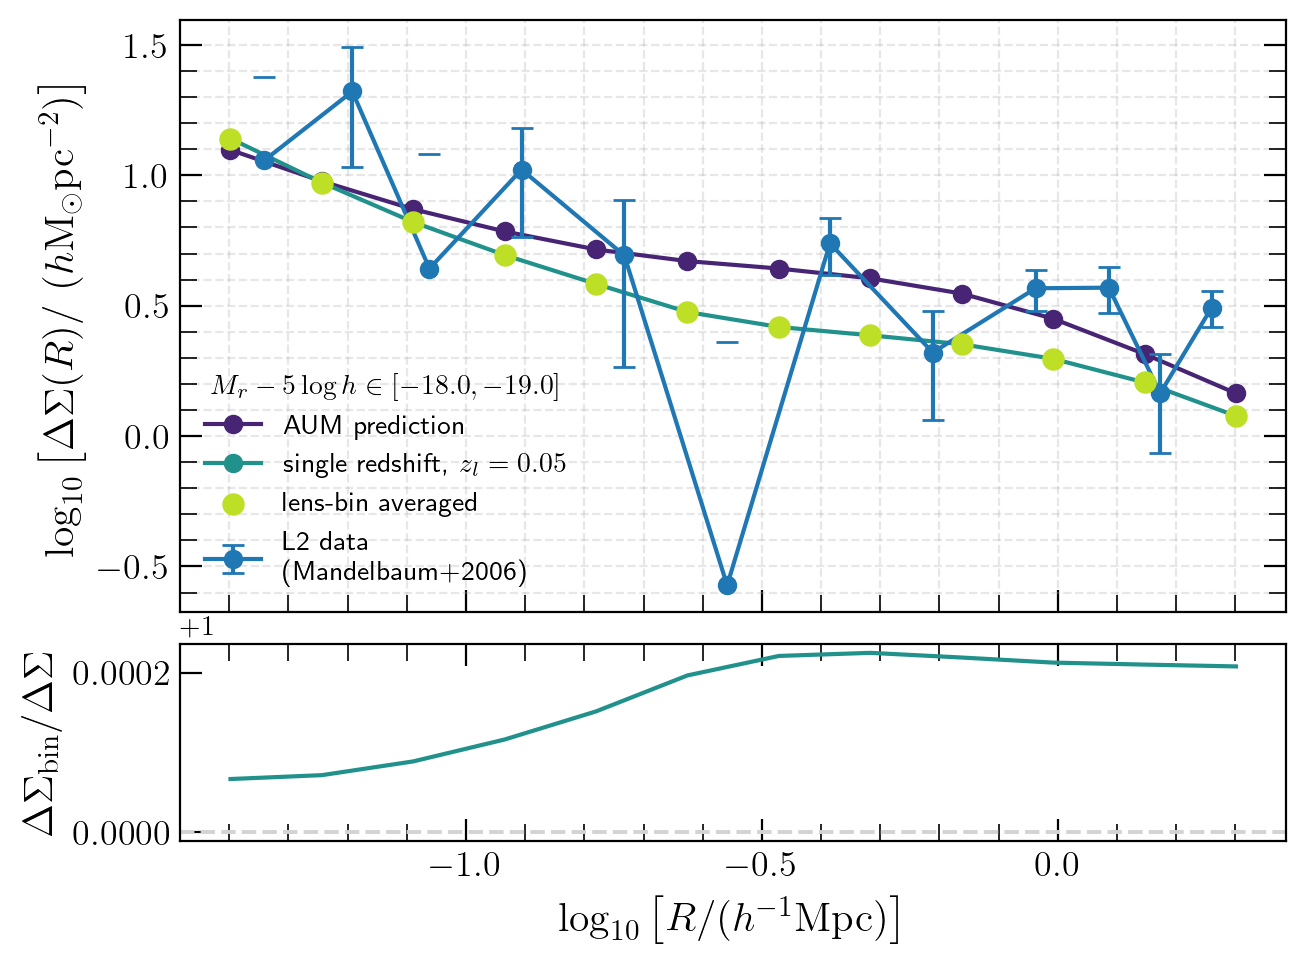
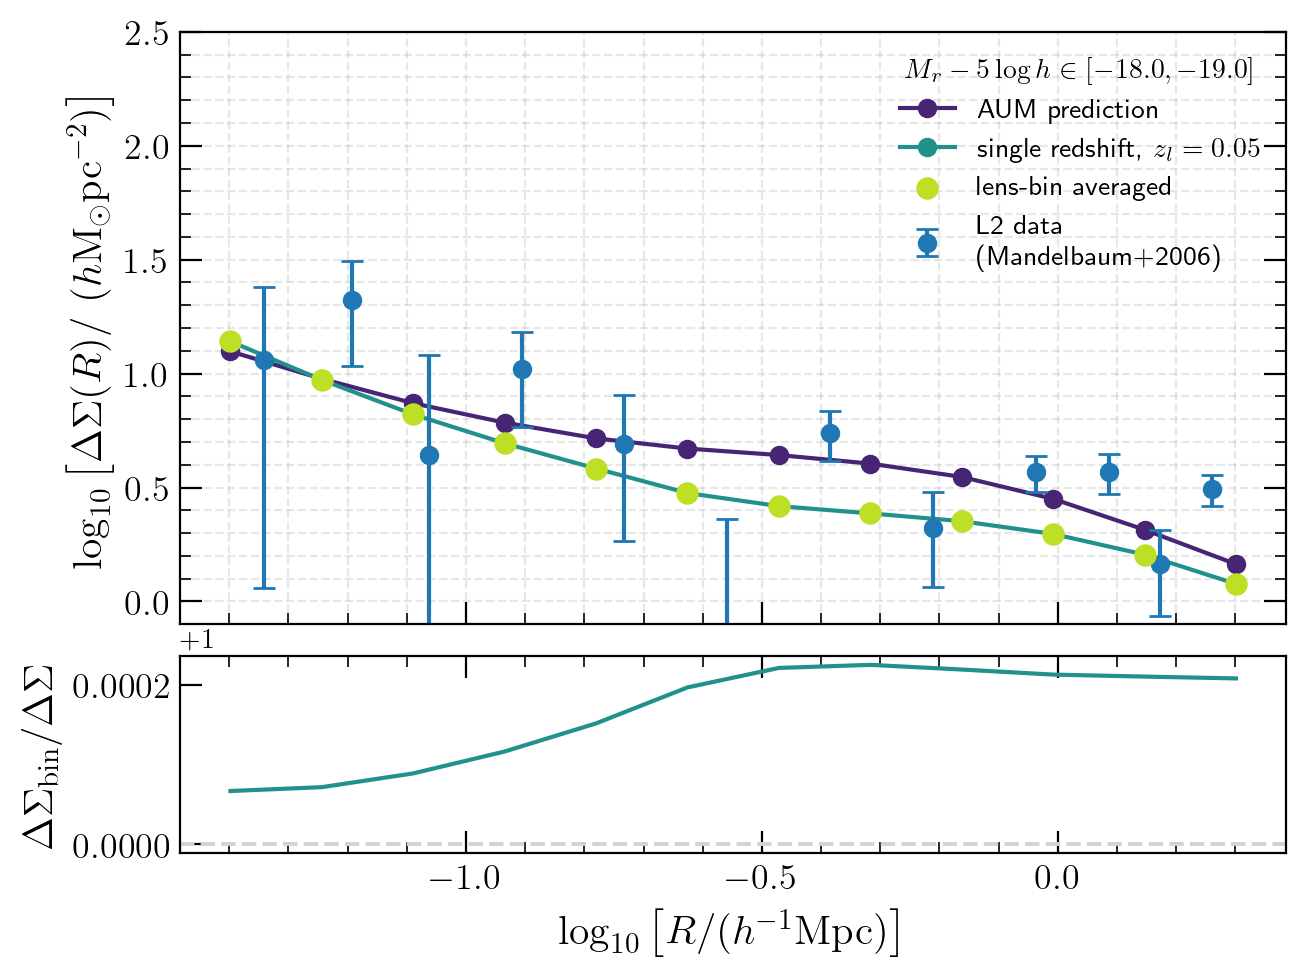
Exact plots as Cacciato with range and errorbars

diff --git a/benchmarks/plot_cacciato_esd.py b/benchmarks/plot_cacciato_esd.py
@@ -29,7 +29,7 @@ if __name__=="__main__":
         shift_h_factor = bool(int(sys.argv[3]))
 
     # This string completely defines the Cacciato sample on interest
-    lumbin = "L2"
+    lumbin = "L6f"
 
     fname = Path(fname.stem + f"_{lumbin}" + fname.suffix)
     if shift_h_factor:
@@ -78,15 +78,30 @@ if __name__=="__main__":
     )
 
     obs_data_vector = get_full_sample_esd(benchmark_indir, file_high, file_low)
+    xval = obs_data_vector.r.values/1000
+    yval = obs_data_vector.esd.values
+    err = obs_data_vector.err.values
     if plot_log:
         # full sample data: Mandelbaum+2006
-        f_x = np.log10(obs_data_vector.r/1000)
+        f_x = np.log10(xval)
         rmask = (f_x > -1.5)
         f_x = f_x[rmask]
-        f_y = np.log10(obs_data_vector.esd)[rmask]
-        f_y_err_lower = f_y - np.log10(obs_data_vector.esd - obs_data_vector.err)
-        f_y_err_upper = np.log10(obs_data_vector.esd + obs_data_vector.err) - f_y
-        f_y_err = np.array([f_y_err_lower[rmask], f_y_err_upper[rmask]])
+        f_y = np.log10(yval)[rmask]
+
+        # --- extract the error bars ---
+        fig_dummy, ax_dummy = plt.subplots()
+        container = ax_dummy.errorbar(f_x, yval[rmask], yerr=err[rmask])
+        ax_dummy.set_yscale('log')
+        lines = container[2][0].get_segments()
+        plt.close(fig_dummy)
+        y_min = np.array([line[0, 1] for line in lines]) 
+        y_max = np.array([line[1, 1] for line in lines])
+        f_y_err_lower = f_y - np.log10(y_min)
+        f_y_err_upper = np.log10(y_max) - f_y
+        # Force any NaN/Negative values from the log zero floor to a safe visual constant
+        f_y_err_lower = np.where(np.isnan(f_y_err_lower) | (f_y_err_lower < 0), 1.0, f_y_err_lower)
+        f_y_err_upper = np.where(np.isnan(f_y_err_upper) | (f_y_err_upper < 0), 1.0, f_y_err_upper)
+        f_y_err = np.array([f_y_err_lower, f_y_err_upper])
 
         #DSF model
         t_x = np.log10(r*cosmo_pars['h']) #Mpc/h
@@ -108,13 +123,14 @@ if __name__=="__main__":
         yscale = "linear"
         xlabel = r"$\log_{10}\left[ R/ (h^{-1}{\rm Mpc}) \right]$"
         ylabel = r"$\log_{10}\left[ \Delta\Sigma(R)/\ (h{\rm M_\odot {pc}^{-2}}) \right]$"
+        ylim =  (-0.1, 2.5)
     else:
         # full sample data: Mandelbaum+2006
-        f_x = obs_data_vector.r/1000
-        rmask = np.log10(obs_data_vector.r/1000)>-1.5
+        f_x = xval
+        rmask = np.log10(f_x)>-1.5
         f_x = f_x[rmask]
-        f_y = obs_data_vector.esd[rmask]
-        f_y_err = obs_data_vector.err[rmask]
+        f_y = yval[rmask]
+        f_y_err = err[rmask]
 
         # theory
         t_x = r*cosmo_pars['h']
@@ -172,7 +188,7 @@ if __name__=="__main__":
         yerr=f_y_err,
         capsize=4,
         marker = "o",
-        ls = "-",
+        ls = "none",
         label=f"{lumbin} data\n(Mandelbaum+2006)"
     )
 
@@ -200,14 +216,15 @@ if __name__=="__main__":
         ax_res.xaxis.set_major_locator(MultipleLocator(0.5))
         ax.yaxis.set_minor_locator(MultipleLocator(0.1))
         ax.yaxis.set_major_locator(MultipleLocator(0.5))
+        ax.set_ylim(ylim)
     ax.tick_params(axis='both', which='major', length=8, labelsize=13, direction="in")
-    ax.tick_params(axis='both', which='minor', length=6, labelsize=11, direction="in")
+    ax.tick_params(axis='both', which='minor', length=4, labelsize=11, direction="in")
     ax.tick_params(axis='y', which='both', direction="in", right=True)
     ax.grid(True, which="both", ls="--", alpha=0.3)
 
     ax_res.tick_params(axis='x', which='both', direction="in", top=True)
     ax_res.tick_params(axis='both', which='major', length=8, labelsize=13, direction="in")
-    ax_res.tick_params(axis='both', which='minor', length=6, labelsize=11, direction="in")
+    ax_res.tick_params(axis='both', which='minor', length=4, labelsize=11, direction="in")
     
     fig.subplots_adjust(left=0.18, right=0.97, bottom=0.15, top=0.94)
     
